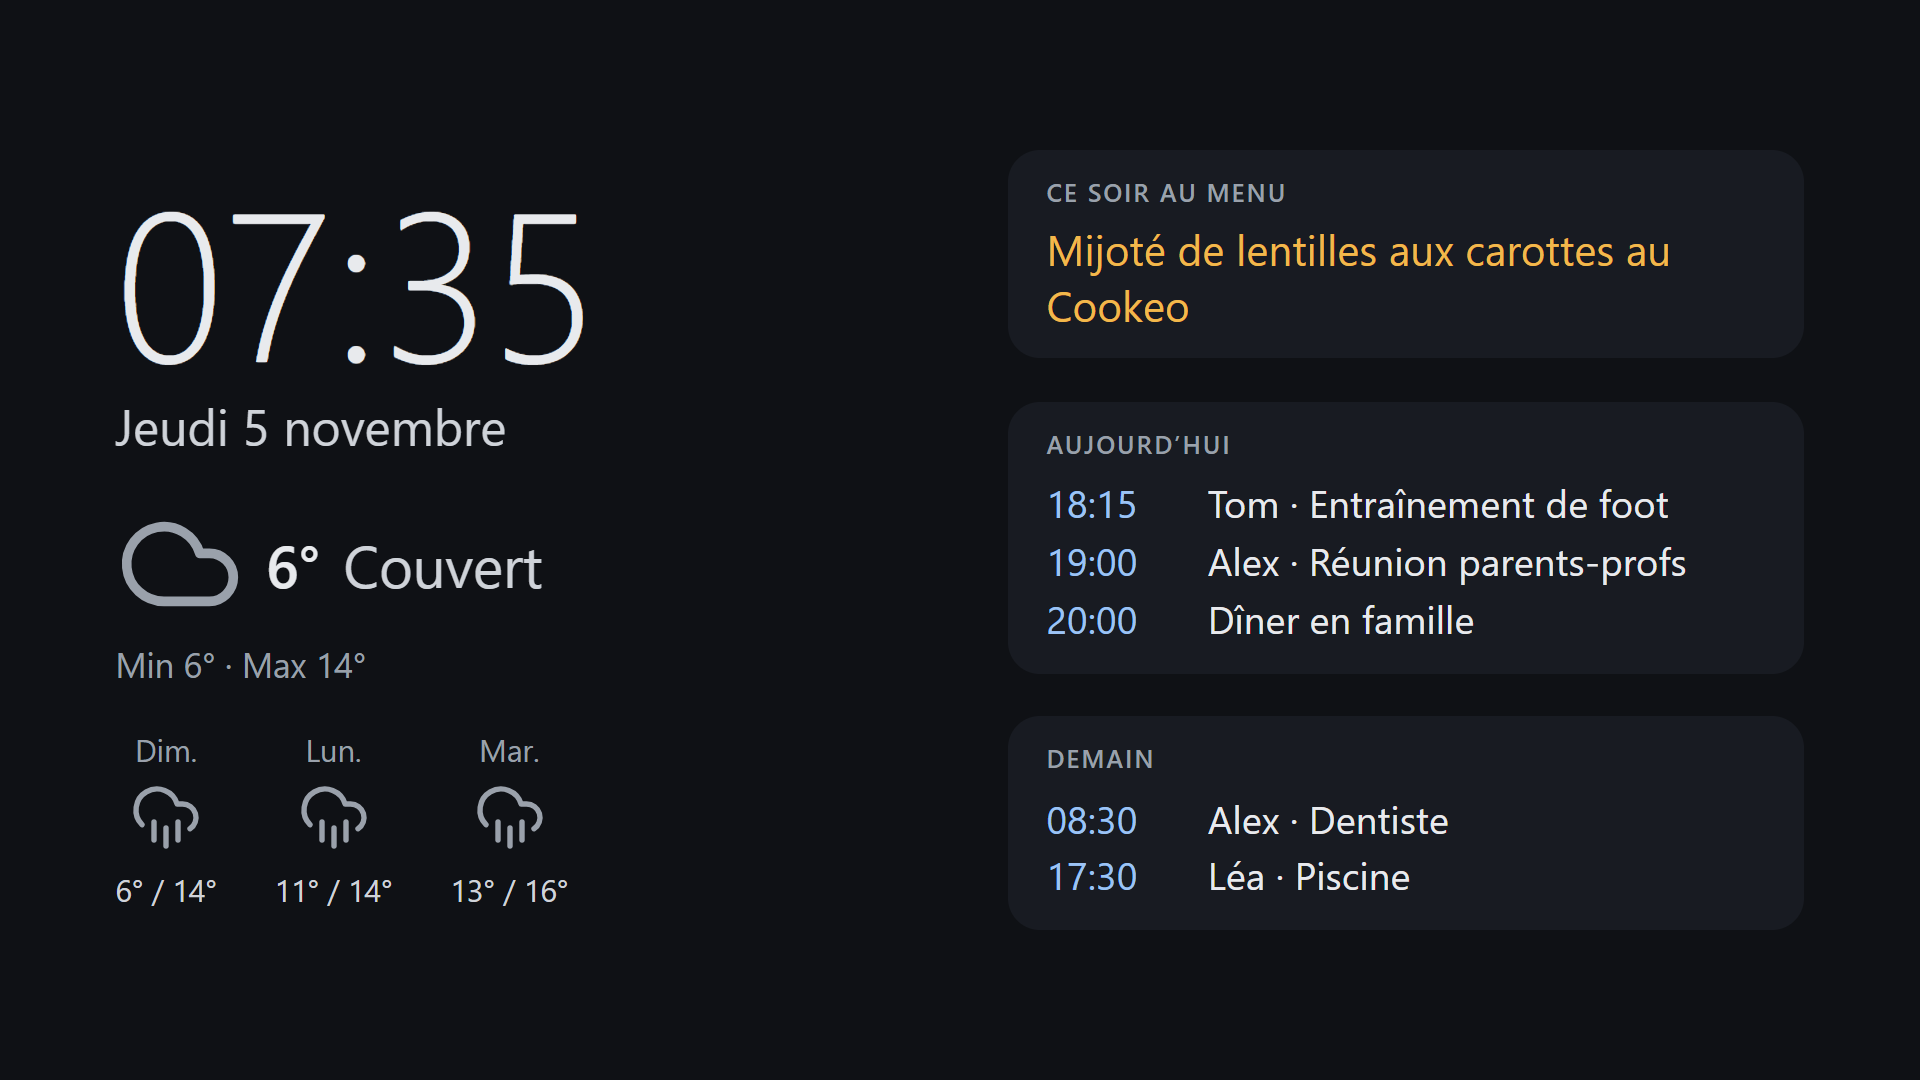
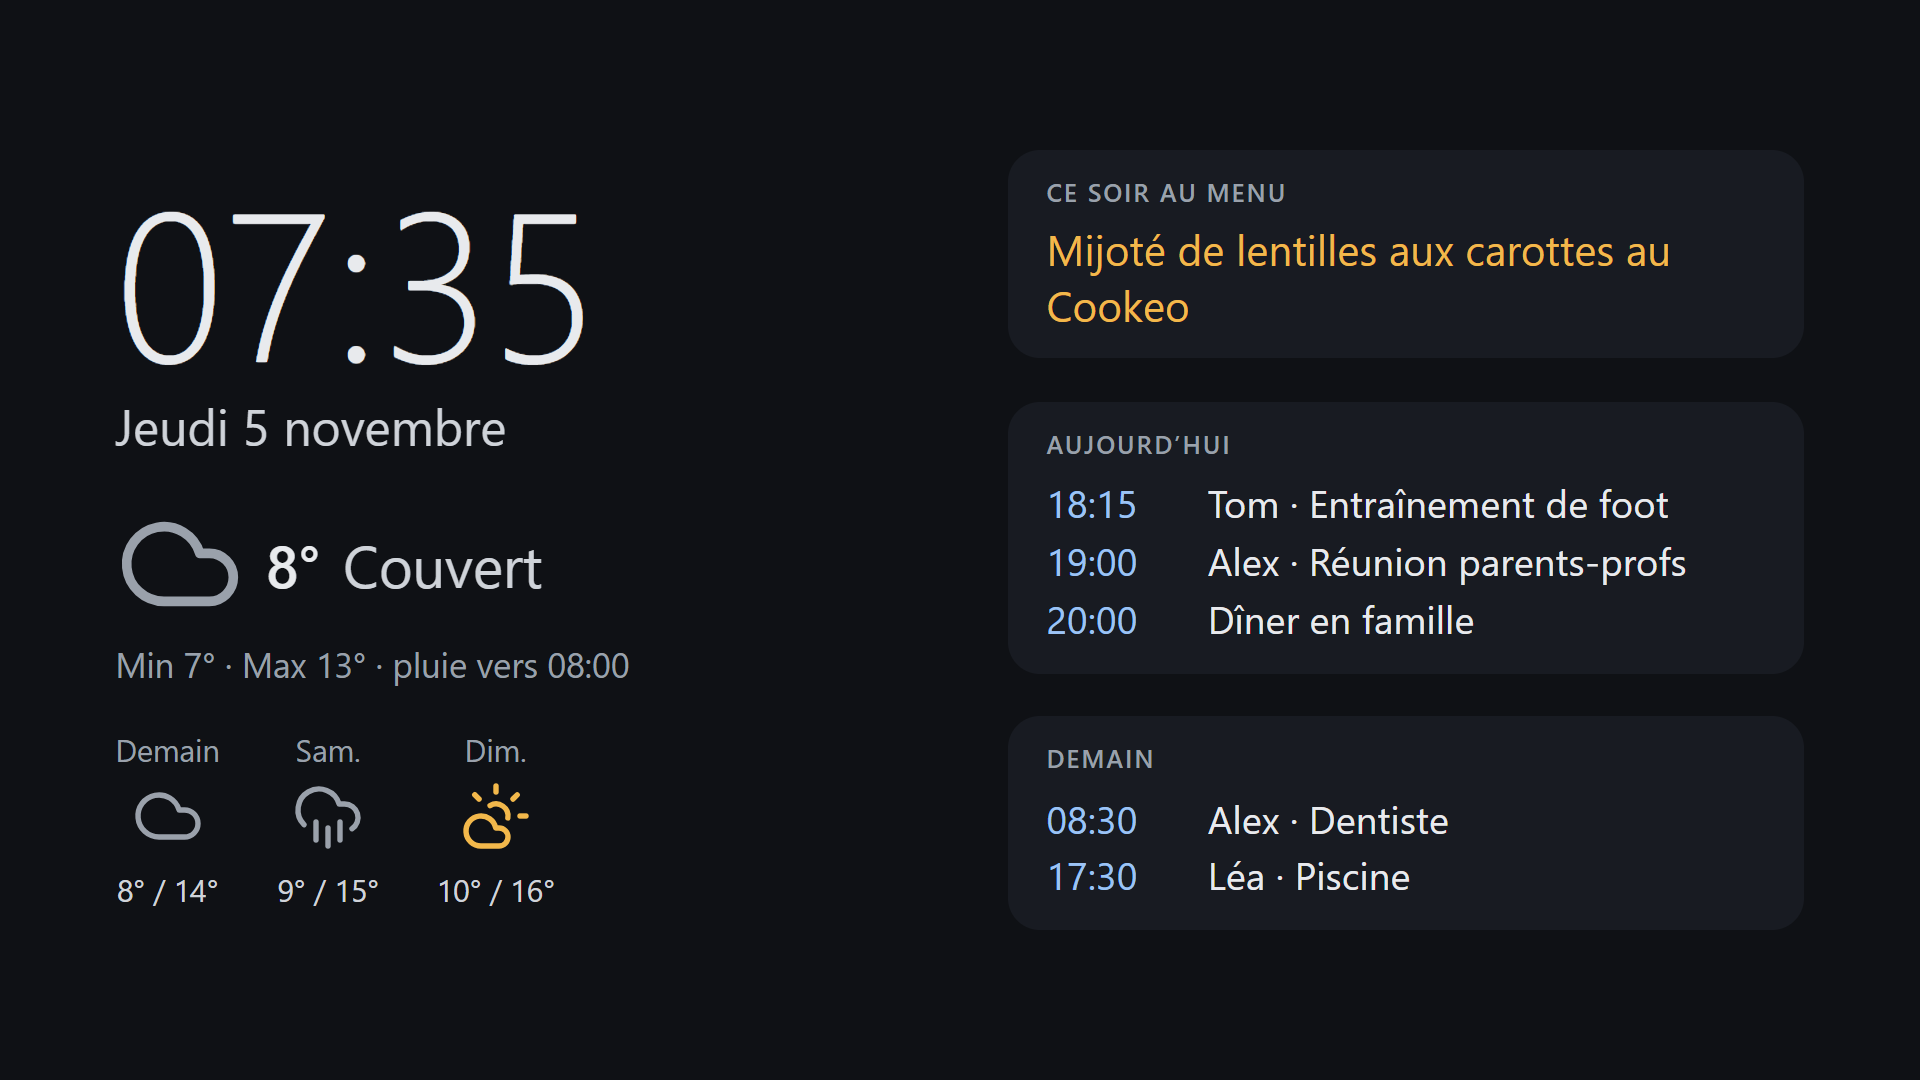
0.85.0 : écran de veille HomeHub sur la télé
- Quand la télé passe en veille d'écran, l'appli HomeHub TV affiche HomeHub : heure et date, météo du moment et des
  3 jours suivants, vacances, menu du soir (recettes du jour, jusqu'à 21 h), agenda d'aujourd'hui et de demain
  (famille et membres, avec leur prénom). La première touche de la télécommande la ferme.
- Écran de veille Android de l'appli (HomeHubDream) : page /ecran dans une WebView, avec le jeton de la télé ;
  GET /api/screen/ecran réservé aux télés appairées, rien de personnel. Page simple pour une WebView ancienne, qui se
  déplace un peu chaque minute.
- installer.ps1 choisit cet écran de veille (screensaver_components) et l'active.

diff --git a/docs/ecrans.md b/docs/ecrans.md
@@ -1,6 +1,6 @@
 # Écrans
 
-Captures de HomeHub 0.84.0, avec des **données fictives** : famille de test (Alex, Sam, Léa, Tom), agenda d'exemple,
+Captures de HomeHub 0.85.0, avec des **données fictives** : famille de test (Alex, Sam, Léa, Tom), agenda d'exemple,
 faux ÉcoleDirecte, faux temps réel Irigo, produits et marques inventés à la place d'Open Food Facts, recettes inventées sur un faux site de cuisine, fiches produit inventées d'une fausse enseigne de drive, calendrier
 scolaire d'exemple (zone B), horloge arrêtée le jeudi 5 novembre 2026 à 07:35 (le 11 novembre et en décembre pour les fériés et les vacances). La météo est réelle,
 celle du jour de la capture.
@@ -426,10 +426,9 @@ la fausse télé du monde fictif) :
 Quand la télé passe en veille d'écran, l'appli HomeHub TV affiche la page `/ecran` de HomeHub : l'heure et la date,
 la météo du moment et des trois jours suivants, le **menu du soir** (en jaune, jusqu'à 21 h) et l'**agenda**
 d'aujourd'hui et de demain, de la famille et de chacun (avec le prénom). Rien de personnel ; tout l'écran se déplace un
-peu chaque minute. La première touche de la télécommande la ferme. (Dans le monde fictif, l'horloge est figée un jeudi
-mais la météo est la vraie prévision du jour : les jours de prévision ne suivent pas.)
+peu chaque minute. La première touche de la télécommande la ferme.
 
-![Écran de veille de la télé : 07:35, jeudi 5 novembre, couvert 6°, trois jours de prévision ; ce soir au menu, agenda d'aujourd'hui et de demain](images/tele-ecran-veille.png)
+![Écran de veille de la télé : 07:35, jeudi 5 novembre, couvert 8°, trois jours de prévision ; ce soir au menu, agenda d'aujourd'hui et de demain](images/tele-ecran-veille.png)
 
 ### Vie scolaire sur le téléphone d'un parent
 
